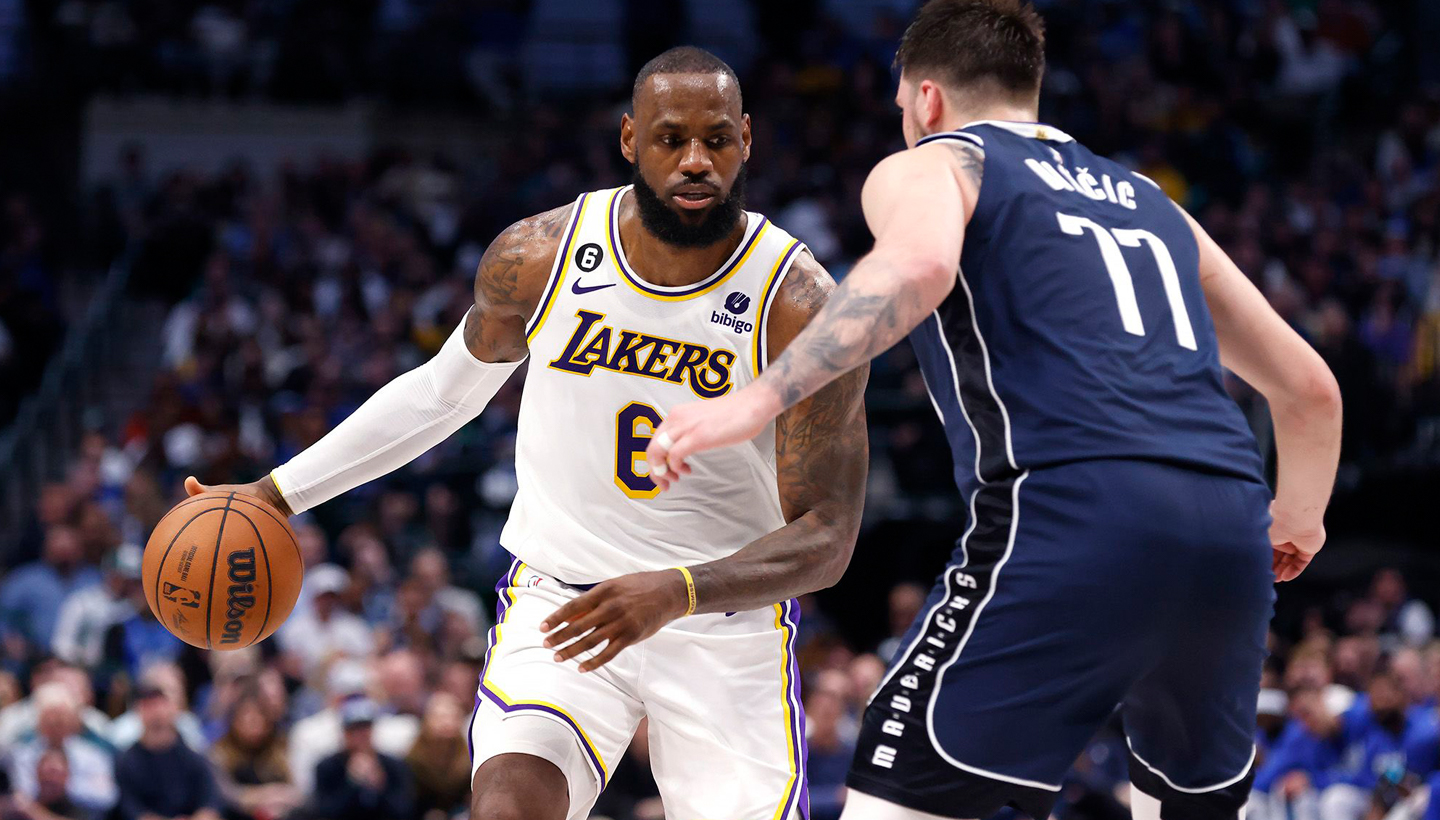
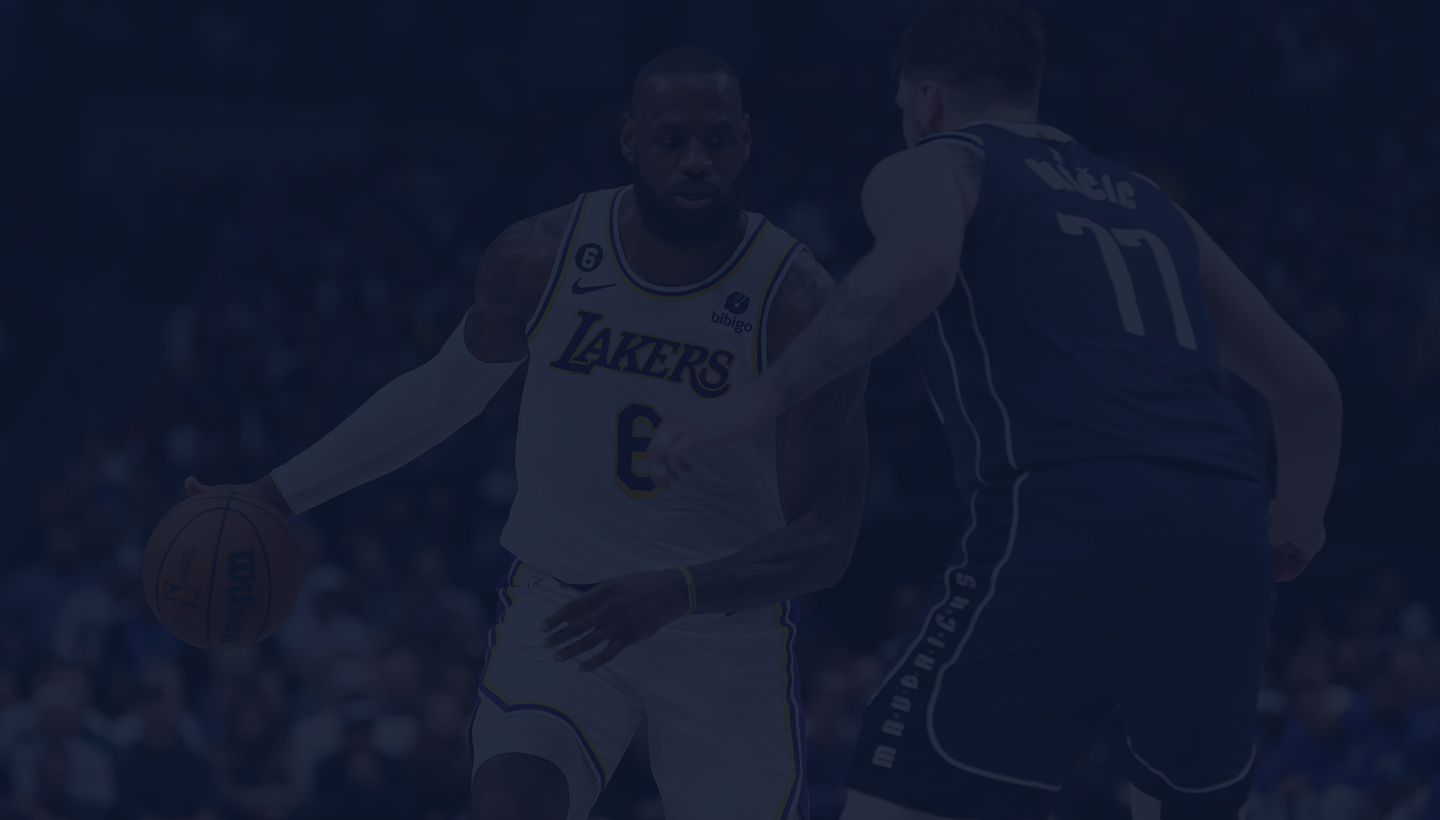
Added a handful of player portraits
Also added background images to register and login pages

diff --git a/client/src/screens/users/RegisterPage.jsx b/client/src/screens/users/RegisterPage.jsx
@@ -13,6 +13,12 @@ const RegisterPage = () => {
 	const theme = useTheme()
 	const { league } = theme.palette
 
+	const textFieldStyles = {
+		input: { color: '#FFF' },
+		label: { color: '#FFF' },
+		border: '1px solid white',
+	}
+
 	const navigate = useNavigate()
 	// redux
 	const dispatch = useDispatch()
@@ -49,13 +55,17 @@ const RegisterPage = () => {
 			disableGutters
 			maxWidth='100%'
 			sx={{
+				height: 'calc(100vh - 100px)',
 				display: 'flex',
 				justifyContent: 'center',
+				backgroundImage: 'url(../../public/images/registration-background.jpg)',
+				backgroundPosition: 'center',
+				backgroundSize: 'cover',
 			}}>
 			<Box
 				sx={{
 					marginTop: '3rem',
-					height: 'calc(100vh - 100px)',
+					// height: 'calc(100vh - 100px)',
 					width: '75%',
 					display: 'flex',
 					flexDirection: 'column',
@@ -67,9 +77,12 @@ const RegisterPage = () => {
 						password === confirmPassword ? submitHandler : passwordMatchHandler
 					}
 					style={{
+						padding: '2rem 8rem',
 						display: 'flex',
 						flexDirection: 'column',
 						alignItems: 'center',
+						backgroundColor: 'rgba(37, 59, 115, 0.8)',
+						border: `2px solid ${league.nbaWhite}`,
 					}}>
 					<Typography>Name</Typography>
 					<TextField
@@ -79,7 +92,7 @@ const RegisterPage = () => {
 						type='name'
 						onChange={e => setName(e.target.value)}
 						placeholder='Name'
-						sx={{ input: { color: '#FFF' }, label: { color: '#FFF' } }}
+						sx={textFieldStyles}
 						value={name}
 					/>
 					<Typography>Email</Typography>
@@ -90,7 +103,7 @@ const RegisterPage = () => {
 						type='email'
 						onChange={e => setEmail(e.target.value)}
 						placeholder='Email'
-						sx={{ input: { color: '#FFF' }, label: { color: '#FFF' } }}
+						sx={textFieldStyles}
 						value={email}
 					/>
 					<Typography>Password</Typography>
@@ -101,7 +114,7 @@ const RegisterPage = () => {
 						type='password'
 						onChange={e => setPassword(e.target.value)}
 						placeholder='Password'
-						sx={{ input: { color: '#FFF' }, label: { color: '#FFF' } }}
+						sx={textFieldStyles}
 						value={password}
 					/>
 					<Typography>Confirm Password</Typography>
@@ -112,7 +125,7 @@ const RegisterPage = () => {
 						type='password'
 						onChange={e => setConfirmPassword(e.target.value)}
 						placeholder='Confirm Password'
-						sx={{ input: { color: '#FFF' }, label: { color: '#FFF' } }}
+						sx={textFieldStyles}
 						value={confirmPassword}
 					/>
 					<Typography>Upload Profile Picture</Typography>

diff --git a/client/src/screens/users/LoginPage.jsx b/client/src/screens/users/LoginPage.jsx
@@ -46,15 +46,17 @@ const LoginPage = () => {
 			disableGutters
 			maxWidth='100%'
 			sx={{
+				height: 'calc(100vh - 100px)',
 				display: 'flex',
 				justifyContent: 'center',
+				backgroundImage: 'url(../../public/images/login-background.jpg)',
+				backgroundPosition: '50% 18%',
+				backgroundSize: 'cover',
 			}}>
 			<Box
 				sx={{
 					marginTop: '3rem',
-					height: 'calc(100vh - 100px)',
 					width: '75%',
-
 					color: league.nbaWhite,
 				}}>
 				<form
